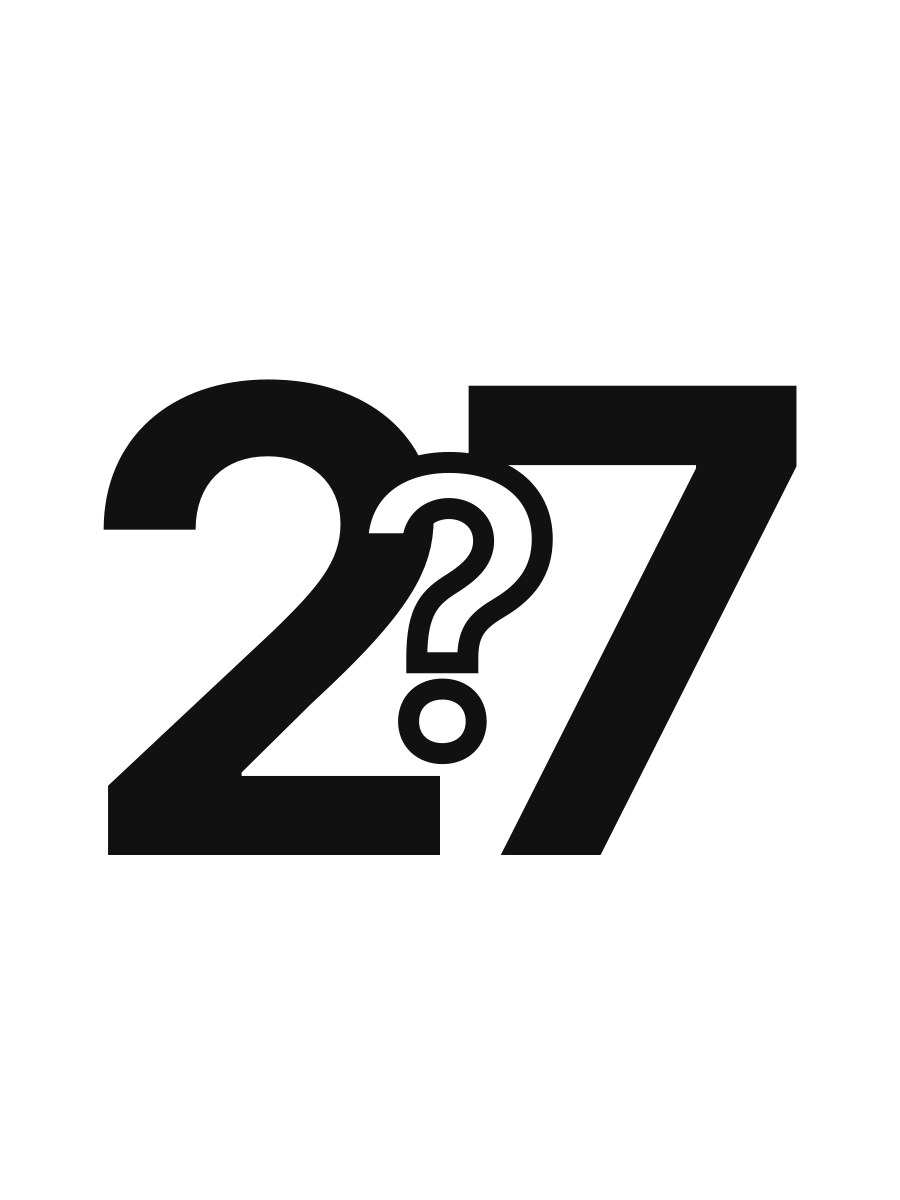
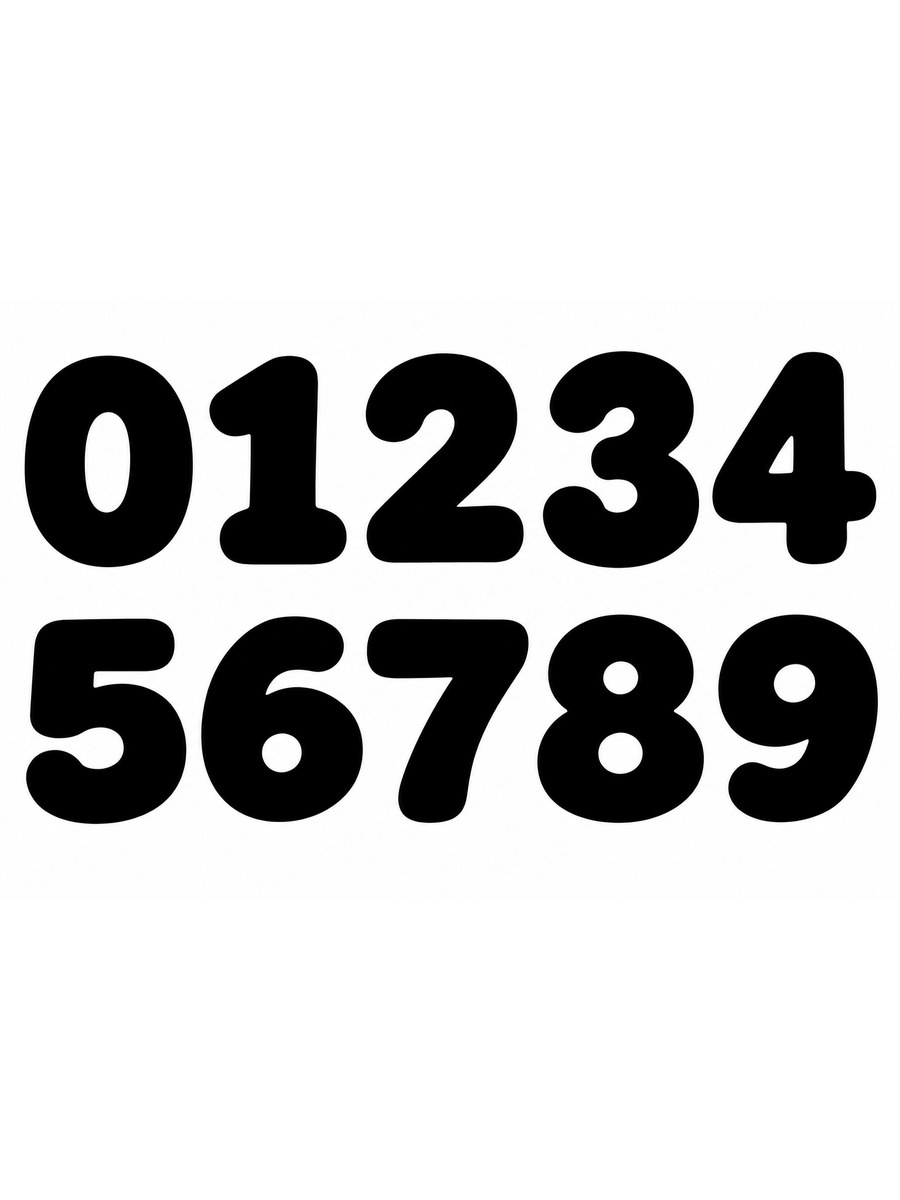
Projets en cours : nouvelles images et indices
Claude-Session: https://claude.ai/code/session_01ErciQ49SFLf8zEqShaibuE

Changed region(s): [[0.0, 0.2775, 0.9956, 0.74]]

diff --git a/index.html b/index.html
@@ -269,8 +269,8 @@ const n=document.getElementById('neige');for(let k=0;k<28;k++){const f=document.
 document.getElementById('exc').innerHTML=EXCEPTION.map(o=>`<div class="exc"><div class="photo">${ph(o)}${o.taille?`<span class="taille">${o.taille}</span>`:''}</div><div><span class="ref" title="Ajouter à ma demande">Réf. ${o.ref}</span><h3>${o.nom}</h3><p>${o.desc}</p>${o.note?`<p class="note">${o.note}</p>`:''}</div></div>`).join('');
 
 const ENCOURS=[
- {nom:"Figurine géante", desc:"Un personnage culte, imprimé en grand, pièce par pièce. Patience…", photo:"projet-figurine.jpg"},
- {nom:"Chiffres géants lumineux", desc:"Des chiffres d'un mètre de haut, creux et lumineux, pour sublimer les plus beaux jours.", photo:"projet-chiffres.jpg"}
+ {nom:"Chiffres géants lumineux", desc:"Une commande d'un ami pour un mariage : des chiffres d'un mètre de haut, creux et lumineux, pour faire briller le grand jour.", photo:"projet-chiffres.jpg"},
+ {nom:"Figurine mystère XXL", desc:"Indice n°1 : il a choisi la pilule rouge et esquive les balles au ralenti. Indice n°2 : il vient d'une célèbre famille de petits personnages allemands de 7,5 cm… ici en version géante !", photo:"projet-figurine.jpg"}
 ];
 document.getElementById('encours').innerHTML=ENCOURS.map(o=>`<div class="exc"><div class="photo">${ph(o)}<span class="badge">En cours</span></div><div><h3>${o.nom}</h3><p>${o.desc}</p></div></div>`).join('');
 const TOUS=[...OBJETS,...EXCEPTION];const choix=[];
